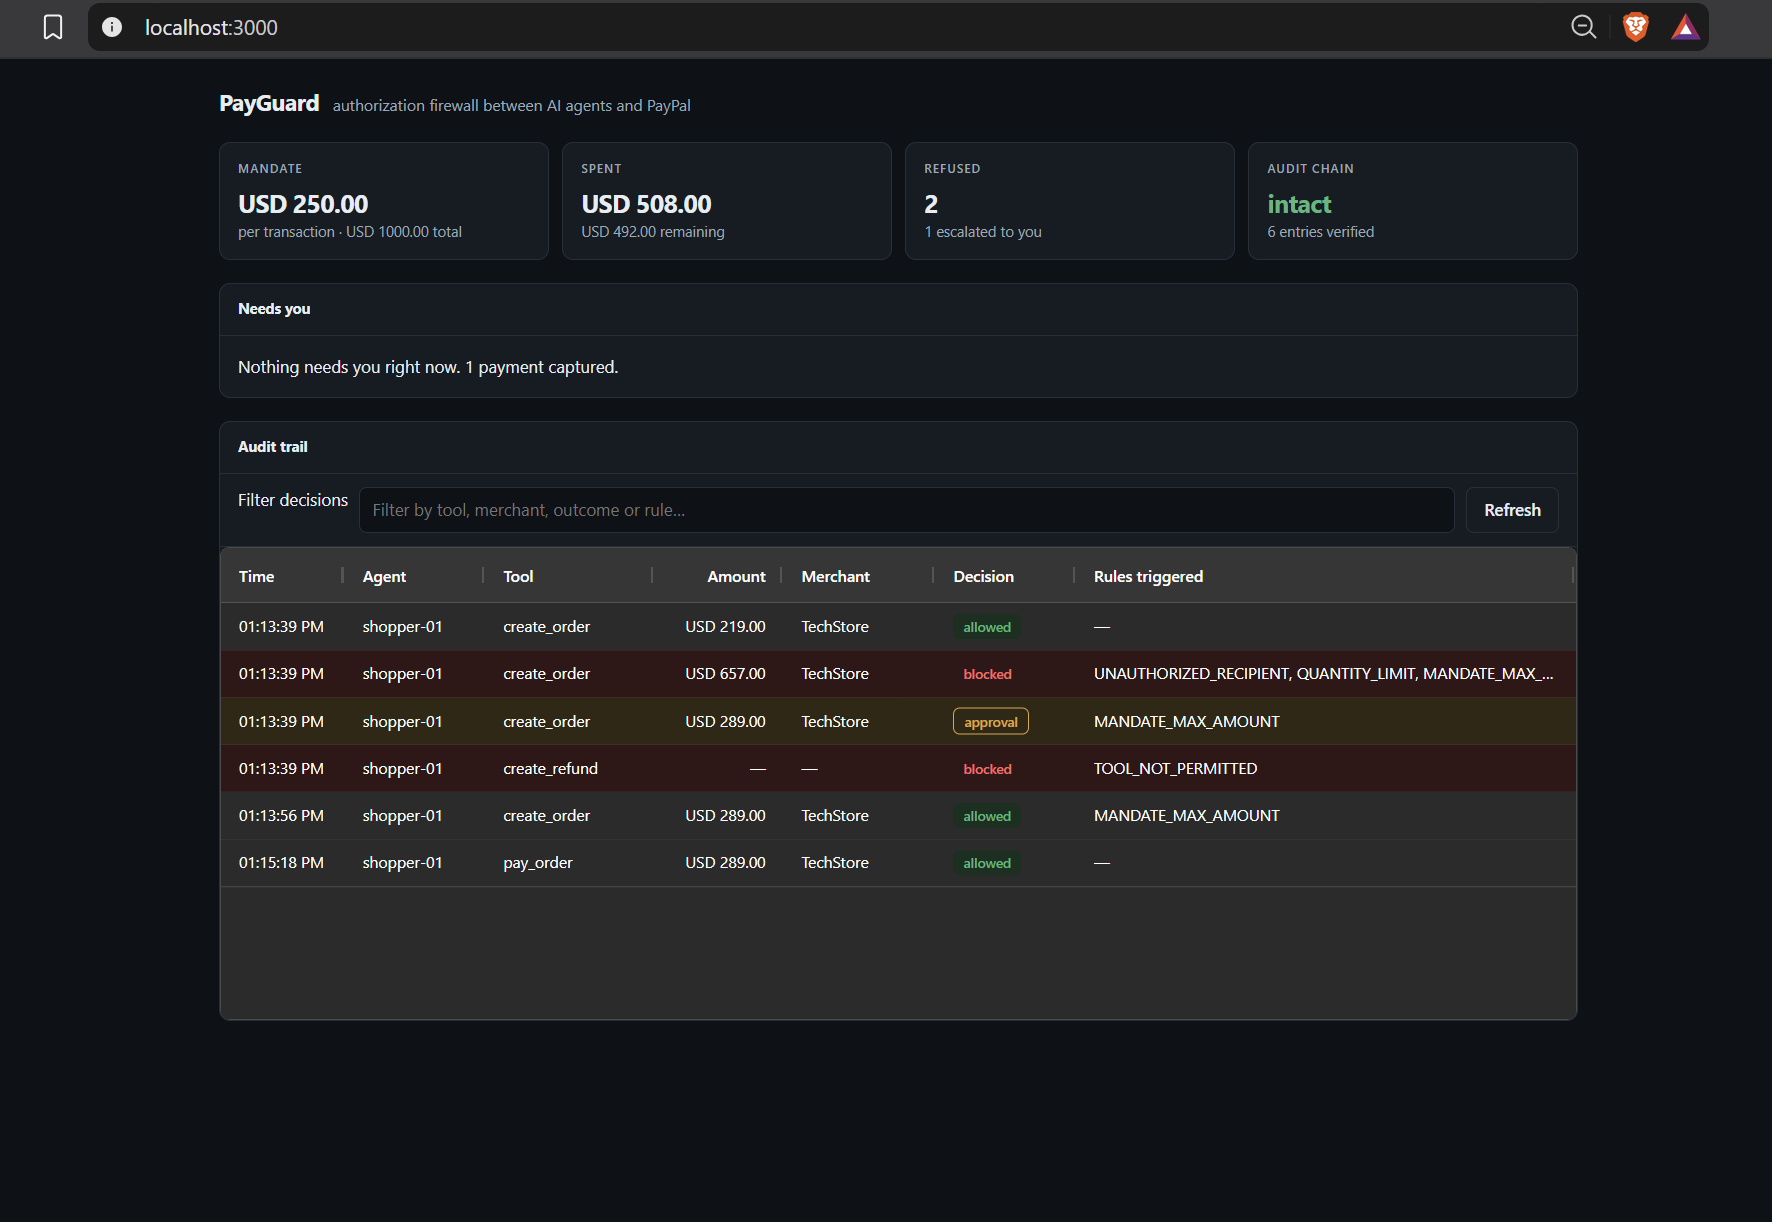
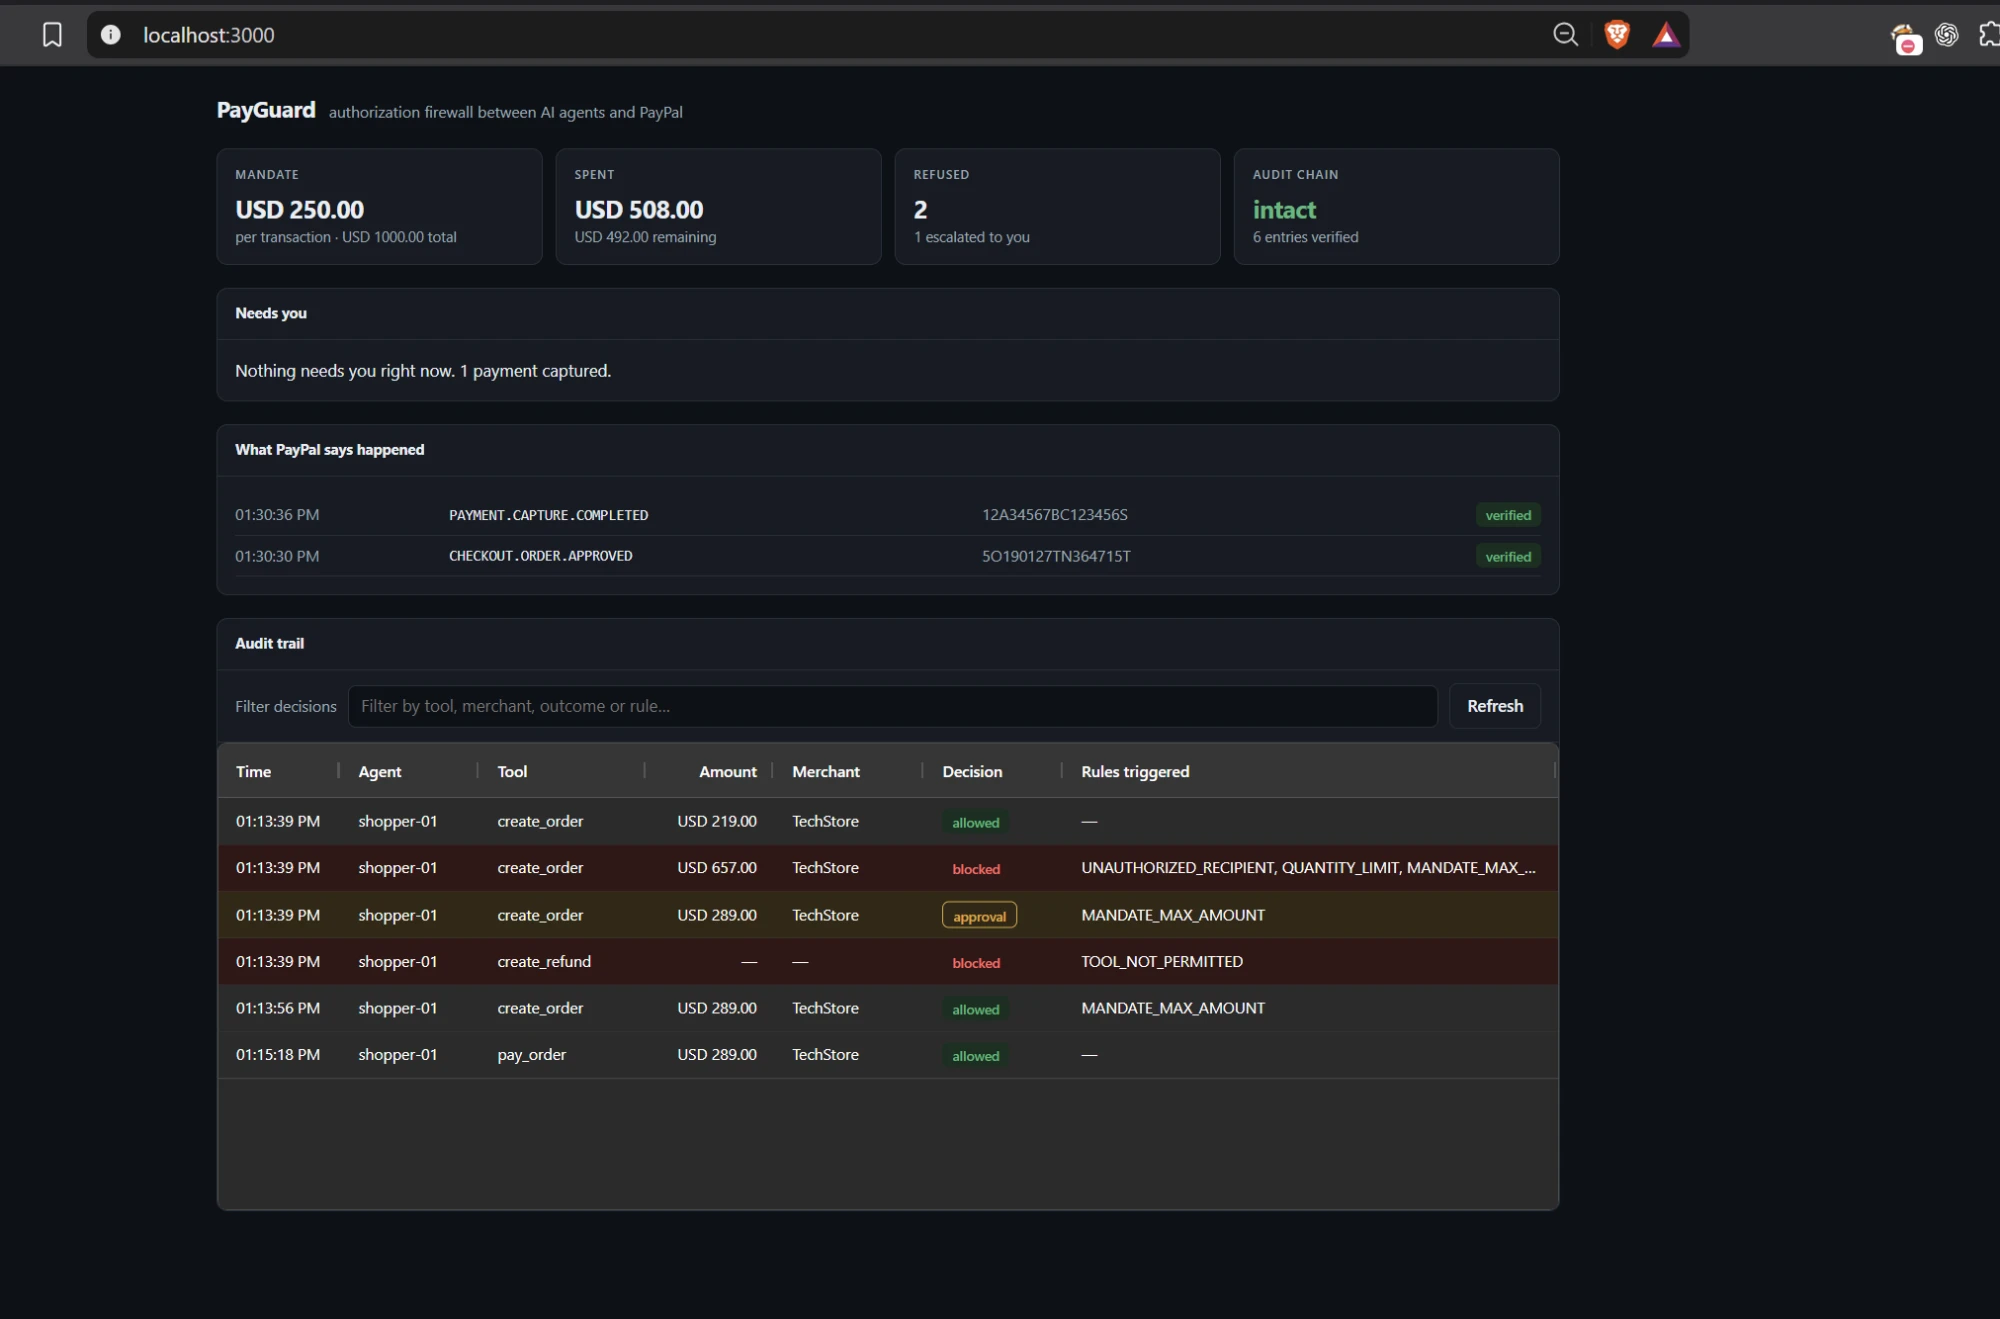
Update dashboard screenshot to show verified webhook events

diff --git a/README.md b/README.md
@@ -28,7 +28,7 @@ PayGuard answers that second question.
 > PayPal's protections protect PayPal and the merchant.
 > PayGuard protects the buyer from their own agent.
 
-![PayGuard dashboard showing one allowed payment, two refused, and one escalated for approval](docs/dashboard.png)
+![PayGuard dashboard: mandate limits, spend against them, the audit trail with one allowed payment, two refused and one escalated, and PayPal's own signed confirmations alongside](docs/dashboard.png)
 
 ## What it does
 
